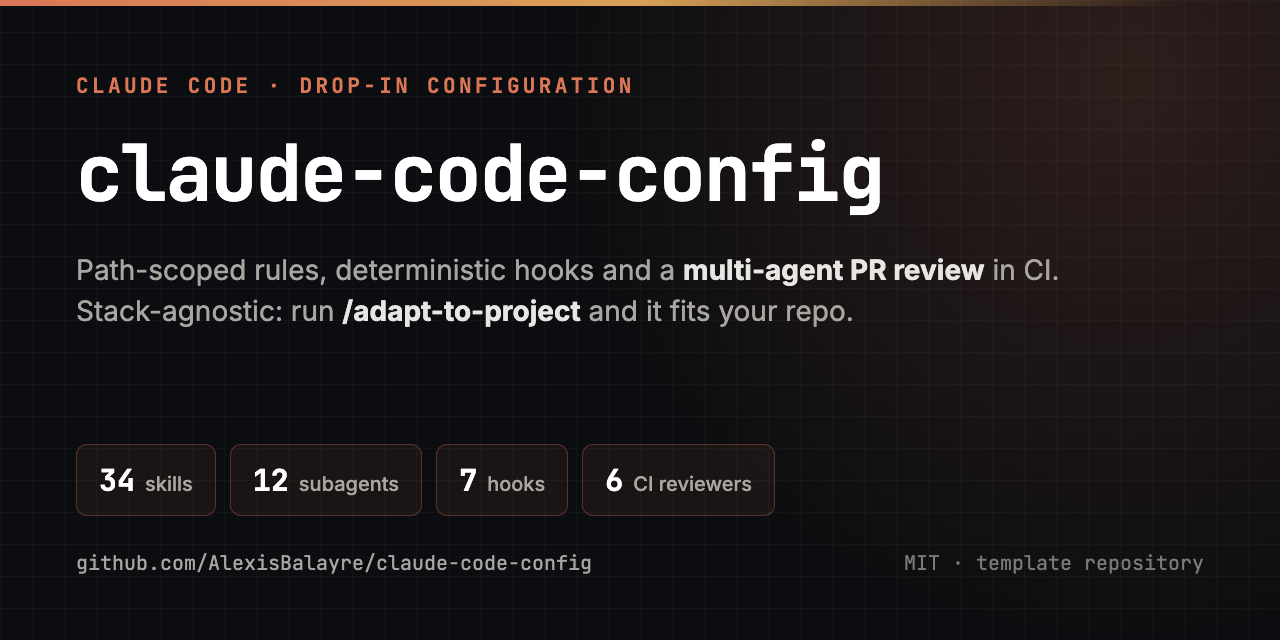
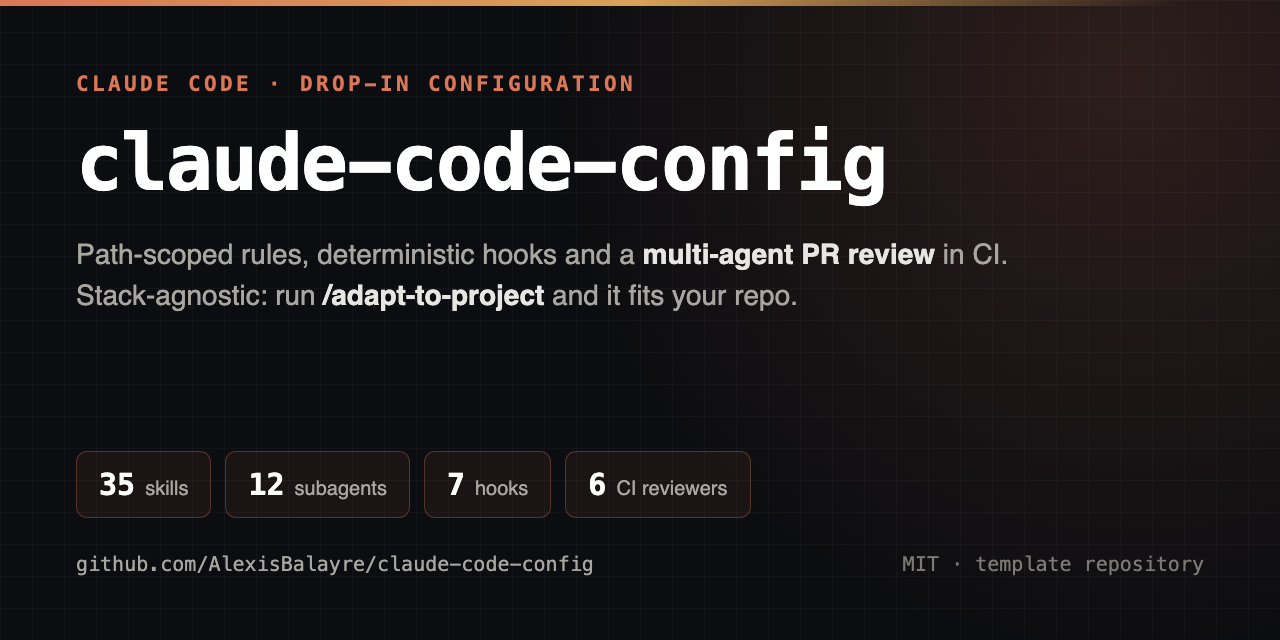
feat(skills): refresh from mattpocock/skills (49dd158) (#29)
* feat(skills): refresh from mattpocock/skills (49dd158)

Brings the tracked skills up to upstream as of 2026-10-09:
- wizard: template.sh fixes (readline prompts, .env quoting, 0600
  mode, symlinks, EOF)
- wayfinder: real ids in cross-references, resolve by the type label,
  no PR for research branches
- implement: fetch a passed ticket and state its title first
- pr-description: the scannable Merge Danger template
- grilling, tdd, diagnosing-bugs, handoff: one-line upstream tweaks

Retires resolving-merge-conflicts, as upstream did. Adds retro and
implement-spec, adapted to docs/conventions, the review-* agents,
scripts/worktree-create.sh and /pr-ci-review. Upstream's CONTEXT.md to
GLOSSARY.md rename needs nothing here: these skills use
docs/glossary.md. Skill count 34 -> 35, social preview re-rendered.

* fix(skills): decode a stored apostrophe on macOS bash, and point at real paths

wizard's _existing turned `'\''` back into `\'` on bash 3.2 (macOS
/bin/bash), so every re-run of a generated wizard added a backslash to a
value holding an apostrophe. retro named the transcript directory with only
`/` replaced, which misses `.worktrees/`; implement-spec now says docs/plans/
lives only in the main checkout.

* fix(skills): make implement-spec commit, push and draft for real, and keep .env comments out of values

From #29's review. implement-spec never committed ticket work or pushed the
integration branch, so the CI review would have seen the first ticket only,
[…]

diff --git a/assets/social-preview.html b/assets/social-preview.html
@@ -82,7 +82,7 @@
   </div>
 
   <div class="stats">
-    <div class="stat"><span class="n">34</span><span class="l">skills</span></div>
+    <div class="stat"><span class="n">35</span><span class="l">skills</span></div>
     <div class="stat"><span class="n">12</span><span class="l">subagents</span></div>
     <div class="stat"><span class="n">7</span><span class="l">hooks</span></div>
     <div class="stat"><span class="n">6</span><span class="l">CI reviewers</span></div>

diff --git a/.claude/skills/retro/SKILL.md b/.claude/skills/retro/SKILL.md
@@ -1,0 +1,44 @@
+---
+name: retro
+description: "Conduct a retrospective on a coding session."
+disable-model-invocation: true
+---
+
+The user has asked for a **retrospective**. You are suggesting improvements to the coding agent's **environment** to improve future runs. (The CI review pipeline has its own retrospective over its run records: `/review-retro`.)
+
+## Steps
+
+1. Call the Skill tool with `writing-for-agents` for the writing style guide.
+
+2. Read the primary sources for the session the user specifies. Claude Code keeps each session's transcript at `~/.claude/projects/<project path with every character but letters and digits replaced by "-">/<session id>.jsonl`. If the user doesn't specify a session, default to the current one.
+
+3. Look for candidates for improvement in these categories.
+
+- **Navigation**: how easy was it for the agent to find the right files? Are there hidden dependencies between files? Would a **navigation pointer** make it easier? _Use when_ the session took a long time to find a piece of information.
+- **Automated checks**: are there automated checks that could catch errors the agent made? Linting, typing, tests, filesystem linters? Read the repo's own checks first (`LINT_CMD`, `TYPECHECK_CMD` and `TEST_CMD` in `.claude/project.env`, which `scripts/pre-commit` runs, and the `Stop` hook too, tests aside, and the workflows under `.github/workflows/`), so a check that already exists but sits unwired or silently broken is the finding, not a reinvention. A repo with no **guardrail** (those keys empty, and no CI job running lint/typecheck/test) is itself a finding: an un-linted repo is a standing missed opportunity, not a neutral default. _Use when_ the agent made a mistake an automated check could have caught, or the repo has no guardrail at all.
+- **Coding standards**: should the **reviewer agents** (`review-conventions` under `/pr-ci-review`, `convention-checker` before a commit) be given a new rule to enforce? Should an existing rule be removed or clarified? Classify the violation first: a **mechanical** one (a fixed syntactic pattern, a banned API, an import shape, a file-location rule) gets a deterministic check, full stop: a rule in the repo's own linter, a row in `.claude/spot-checks.tsv`, a hook under `.claude/hooks/`, a `scripts/pre-commit` step, or a CI job, whichever the repo's language and existing guardrail make cheapest. Default to building the check over writing the rule. Reserve `docs/conventions/<area>.md` for genuine **judgement calls** (cross-file consistency, "matches the surrounding style," anything no guardrail could ever substitute for). _Use when_ a reviewer agent failed to catch a mistake.
+- **Global AGENTS.md**: are there any steering instructions in `AGENTS.md` or `CLAUDE.md` that should be moved to `docs/conventions/` (or automated checks) instead? _Use when_ those files are particularly large - in the repo OR the user's global scope (`~/.claude/CLAUDE.md`).
+- **Tool economy**: did the agent make expensive tool calls that could be streamlined? Is there any custom tooling (CLI's, MCP's) that is particularly token-inefficient? _Use when_ the agent made an expensive tool call.
+- **No-ops**: look for instructions in steering files that don't modify the agent's behavior. _Use when_ the steering files are large and unwieldy.
+- **Information access**: look for opportunities to increase the agent's access to information. Teeing dev server logs, readonly access to third-party services. _Use when_ a crucial piece of information was not available to the agent.
+
+4. Present these candidates to the user, in order of severity.
+
+## Reference
+
+### Implementation vs Review
+
+Remember that all work goes through two stages: implementation and review. The implementation agent has the most **context pressure**. They are responsible for exploration, writing code, and debugging failures.
+
+The review agent has the least context pressure - it receives a diff, so no exploration needed. It often does not need to write code or debug.
+
+This means that the review agents should be responsible for imposing coding standards, not the implementation agent.
+
+### Files
+
+You have access to several files in the repo:
+
+- `CLAUDE.md`/`AGENTS.md`: these files are pushed to the context window of any agent working in this repo. They should be used incredibly sparingly, usually only for **navigation pointers** to other files.
+- `docs/conventions/<area>.md`: the coding standards. `.claude/rules/` loads one only when an agent touches its area, and the reviewer agents enforce them on the diff. Point a doc at other `docs/` pages rather than growing it past 1,000 lines.
+- Docs: `docs/` (indexed by `docs/README.md`) holds reference files, pointed to by other files. Look for existing docs before writing new ones.
+- Skills: use skills for docs (since their description goes into the agent's context window), or for user-invoked commands. Follow the advice in the `writing-for-agents` skill.

diff --git a/.claude/skills/implement-spec/SKILL.md b/.claude/skills/implement-spec/SKILL.md
@@ -1,0 +1,41 @@
+---
+name: implement-spec
+description: "Implement the result of /to-spec and /to-tickets in code."
+disable-model-invocation: true
+---
+
+You have been provided a spec. This spec should have tickets associated with it, describing how to implement the spec.
+
+The tickets live in the configured tracker (IDs from `.env`), or under `docs/plans/<feature-slug>/issues/` when there is no tracker (see `/to-tickets`). If you can't find them, ask the user. `docs/plans/` is never committed, so it exists only in the main checkout: point subagents at it by absolute path.
+
+The goal is the entire spec implemented on a single **integration branch**, with every ticket resolved the way the issue tracker closes work.
+
+The tickets are not a list of steps. They are a **task graph** with blocking relationships between them. This means there is always a **frontier** of tickets which are ready to be grabbed.
+
+Communication to and from subagents should be sparse. Communicate primarily through **context pointers**: to the spec, tickets, research notes, and previous commits. Don't duplicate information already available via pointers.
+
+**Implementer subagents** should be run in the background where possible for maximum concurrency.
+
+## Steps
+
+1. Read the spec and tickets to understand the task graph.
+
+2. (optional) Use an **exploration subagent** to conduct any exploration required by the tickets - relevant codebase files or external documentation. Ensure the exploration subagent can save files - it should save its markdown notes in a directory outside the repo, accessible by all future subagents. This lets **implementer subagents** focus on implementation rather than exploration.
+
+3. Create the integration branch with `scripts/worktree-create.sh <spec-slug>`. After the first merge in step 5 (a branch with no commits ahead of the trunk can't open a PR), push it and open a **draft** PR marked as closing the spec and tickets. Call the Skill tool with `pr-description` for its title and body only, then open it yourself with `gh pr create --draft`: `pr-description`'s own create step opens a ready PR, which the CI review bills on every push. The CI review skips drafts, so it runs once step 8 marks the PR ready.
+
+4. Use **implementer subagents** to implement each ticket, each in its own worktree on its own branch: `scripts/worktree-create.sh <ticket-slug>`, run from the integration worktree, branches from the integration branch. Each implementer subagent:
+   - confirms its worktree is based on the integration branch before starting, and fast-forwards onto it (`git merge --ff-only <integration-branch>`) if not;
+   - calls the Skill tool with `tdd` to build the ticket;
+   - commits its work on its own branch;
+   - merges the integration branch tip into its own branch before reporting done
+
+5. Once an **implementer subagent** completes, merge its work to the integration branch with a **merger subagent**, then push the integration branch. Run mergers one at a time: two in the same integration worktree collide.
+
+6. If this changes the **frontier** of available tickets, kick off more **implementer subagents** to work on the new tickets. This allows for maximum concurrency.
+
+7. Once all tickets are complete, review the integration branch's diff against the spec and tickets yourself: every acceptance criterion met, nothing built beyond them. Fix any gap in a single **implementer subagent**.
+
+8. Push the integration branch and mark the draft PR ready for review, which starts the CI review (`pr-ci-review`). Wait for it (`gh pr checks <number> --watch`), fix the important findings in the review it posts (that review's, not other comments on the PR) in a single **implementer subagent**, and push. Then resolve each ticket the way the issue tracker closes work.
+
+9. From the integration worktree, where their branches are merged, clean up every **implementer subagent** worktree (`git worktree remove`) and its branch (`git branch -d`).

diff --git a/.claude/skills/wayfinder/SKILL.md b/.claude/skills/wayfinder/SKILL.md
@@ -133,8 +133,8 @@ User invokes with a loose idea.
 1. **Name the destination.** Call the Skill tool twice, for "grilling" and "domain-modeling", to pin down what this map is finding its way to: the spec, decision, or change. The destination fixes the scope, so it's settled first.
 2. **Map the frontier.** Grill again, **breadth-first** this time: fan out across the whole space rather than deep on any one thread, surfacing the open decisions and the first steps takeable now. **If this surfaces no fog** (the way to the destination is already clear, the whole journey small enough for one session), you don't need a map. Stop and ask the user how they'd like to proceed.
 3. **Create the map** (label `wayfinder:map`): Destination and Notes filled in, Decisions-so-far empty, the fog sketched into **Not yet specified**.
-4. **Create the tickets you can specify now** as child issues of the map, then wire blocking edges in a **second pass** (issues need ids before they can reference each other). Wiring sorts them into the frontier and the blocked; everything you can't yet specify stays in the fog: the **Not yet specified** section.
-5. **Fire the research subagents.** For each `research` ticket you just created, spin up a subagent that calls the Skill tool with "research" to resolve it in parallel, working in its own throwaway worktree (`scripts/worktree-create.sh research-<name>`), with a context pointer from the ticket to its findings.
+4. **Create the tickets you can specify now** as child issues of the map, then wire blocking edges in a **second pass** (issues need ids before they can reference each other). Write cross-references in that pass too, with real ids: a placeholder `#<n>` auto-links to an unrelated issue. Wiring sorts them into the frontier and the blocked; everything you can't yet specify stays in the fog: the **Not yet specified** section.
+5. **Fire the research subagents.** For each `research` ticket you just created, spin up a subagent that calls the Skill tool with "research" to resolve it in parallel, working in its own throwaway worktree (`scripts/worktree-create.sh research-<name>`), with a context pointer from the ticket to its findings. Push its branch but open no PR: it is never merged.
 6. Stop: charting is one session's work; it hand-resolves nothing.
 
 ### Work through the map
@@ -143,7 +143,7 @@ User invokes with a map (URL, issue id, or `map.md` path). A ticket is **optiona
 
 1. Load the **map**: the low-res view, not every ticket body.
 2. Choose the ticket. If the user named one, use it. Otherwise take the first frontier ticket in order. **Claim it**: assign it to yourself before any work.
-3. Resolve it. **Zoom as needed**: fetch the full body of any related or closed ticket on demand; call the Skill tool for whichever skills the `## Notes` block names. If in doubt, call the Skill tool twice, for "grilling" and "domain-modeling".
+3. Resolve it as the type its `wayfinder:<type>` label (locally, its `Type:` line) names (see [Ticket Types](#ticket-types)). Read the label, not just the body: the body never states the type. **Zoom as needed**: fetch the full body of any related or closed ticket on demand; call the Skill tool for whichever skills the `## Notes` block names. If in doubt, call the Skill tool twice, for "grilling" and "domain-modeling".
 4. Record the resolution: post the answer as a **resolution comment**, **close** the issue, and **append a context pointer** to the map's Decisions-so-far.
 5. Add newly-surfaced tickets (create-then-wire); graduate any fog the answer has made specifiable, clearing each graduated patch from **Not yet specified** so it lives only as its new ticket. If the answer reveals that a ticket (this one or another) sits beyond the destination, **rule it out of scope** rather than resolving it on the route. If the decision invalidates other parts of the map, update or delete those tickets.
 

diff --git a/README.md b/README.md
@@ -1,6 +1,6 @@
 # claude-code-config
 
-**A complete Claude Code setup you can drop into any repo: path-scoped rules, 34 skills, 12
+**A complete Claude Code setup you can drop into any repo: path-scoped rules, 35 skills, 12
 subagents, 7 deterministic hooks, and a multi-agent PR review that runs in GitHub Actions.**
 
 [![Use this template](https://img.shields.io/badge/use%20this-template-2ea44f?style=flat-square&logo=github)](https://github.com/AlexisBalayre/claude-code-config/generate)
@@ -46,7 +46,7 @@ around one stack. This one is built on three different bets:
 | **`AGENTS.md`** + **`CLAUDE.md`** | 2 | Always-on project memory, layered: `AGENTS.md` is the tool-agnostic base (role, conventions map, comments/altitude discipline, git workflow) any coding agent can read; `CLAUDE.md` just imports it and adds Claude Code-only notes. Kept tiny on purpose. |
 | **`project.env`** | 1 | The project profile: format/lint/typecheck/test/install commands, generated paths, file-naming pattern, trunk. Every hook and script reads it; an empty key turns its check off. |
 | **`rules/`** | 2+ | Path-scoped **pure loaders** (core, testing, plus one per project area once adapted) that auto-load `docs/conventions/*.md` only when you touch matching files. |
-| **`skills/`** | 34 | Auto-discoverable workflows: setup (`adapt-to-project`), planning (`to-spec`, `to-tickets`, `wayfinder`, `implement`…), engineering (`tdd`, `diagnosing-bugs`, `resolving-merge-conflicts`, `wizard`, `research`…), thinking & design (`grilling`, `grill-me`, `codebase-design`, `domain-modeling`, `prototype`…), PR & review (`pr-description`, `pr-ci-review`, `address-review-comments`, `review-retro`), meta (`writing-for-agents`, `handoff`, `wait-what`…), and personal integrations (`obsidian-vault`, `daily-note`, `fix-sonar`, `wiz`… — configured via `.env`). Engineering and thinking skills track [mattpocock/skills](https://github.com/mattpocock/skills). |
+| **`skills/`** | 35 | Auto-discoverable workflows: setup (`adapt-to-project`), planning (`to-spec`, `to-tickets`, `wayfinder`, `implement`, `implement-spec`…), engineering (`tdd`, `diagnosing-bugs`, `wizard`, `research`…), thinking & design (`grilling`, `grill-me`, `codebase-design`, `domain-modeling`, `prototype`…), PR & review (`pr-description`, `pr-ci-review`, `address-review-comments`, `review-retro`), meta (`writing-for-agents`, `retro`, `handoff`, `wait-what`…), and personal integrations (`obsidian-vault`, `daily-note`, `fix-sonar`, `wiz`… — configured via `.env`). Engineering and thinking skills track [mattpocock/skills](https://github.com/mattpocock/skills). |
 | **`agents/`** | 12 | Isolated subagents: 4 proactive (`convention-checker`, `migration-reviewer`, `security-reviewer`, `architecture-explainer`), 7 `review-*` reviewers + validator dispatched by `pr-ci-review`, and `comment-pruner` dispatched by its Stop hook. |
 | **`hooks/`** | 7 | Zero-LLM shell scripts on lifecycle events: quality gate, convention spot-check, comment-pruner dispatch, git safety, generated-file protection, file-naming validation, compaction preservation. All stack-specific values come from `project.env`. |
 

diff --git a/.claude/skills/README.md b/.claude/skills/README.md
@@ -25,6 +25,7 @@ to invoke it.
 | `to-tickets` | Break a plan, spec, or conversation into tracer-bullet tickets, each declaring its blocking edges. | Manual only (`/to-tickets`) |
 | `wayfinder` | Plan work too big for one agent session as a shared map of decision tickets, then resolve them one at a time. | Manual only (`/wayfinder`) |
 | `implement` | Implement a spec or set of tickets: TDD, the project's typecheck/test commands, a self-review against the acceptance criteria, then commit on a feature branch. | Manual only (`/implement`) |
+| `implement-spec` | Implement a whole spec's tickets in parallel: a subagent and worktree per frontier ticket, merged into one integration branch behind a draft PR, then the CI review once the PR is marked ready. | Manual only (`/implement-spec`) |
 | `to-questionnaire` | A decision you can't answer alone: turn it into a questionnaire for the one person who can. | Manual only (`/to-questionnaire`) |
 
 ## Engineering — build, fix, and clean up
@@ -33,7 +34,6 @@ to invoke it.
 | :---- | :---------- | :----- |
 | `tdd` | Building a feature or fixing a bug test-first; "red-green-refactor"; want integration tests. | Auto or `/tdd` |
 | `diagnosing-bugs` | A hard bug or performance regression; "diagnose/debug this"; something broken, throwing, failing, or slow. Builds a feedback loop first and redacts secrets from anything it shows. | Auto or `/diagnosing-bugs` |
-| `resolving-merge-conflicts` | A merge, rebase, or cherry-pick stopped on conflicts. Resolves by intent and regenerates, never hand-merges, generated files. | Auto or `/resolving-merge-conflicts` |
 | `wizard` | A step only a human can do (dashboard clicks, credentials, CI secrets, a one-off cutover): generates an interactive bash wizard that walks them through it. | Auto or `/wizard` |
 | `research` | Research a question against primary sources and save the cited findings to `docs/research/<slug>.md`. | Auto or `/research` |
 | `find-dead-code` | "find dead code" / "unused exports" / "prune the codebase". Returns a ranked candidate list with a per-item verification checklist; it never deletes. | Manual only (`/find-dead-code`) |
@@ -65,6 +65,7 @@ to invoke it.
 | Skill | When to use | Invoke |
 | :---- | :---------- | :----- |
 | `writing-for-agents` | Create or edit a skill, `AGENTS.md`, or `CLAUDE.md` well: context pointers, information hierarchy, leading words, invocation mechanics, and this repo's house rules. | Auto or `/writing-for-agents` |
+| `retro` | After a session: read its transcript and suggest fixes to the agent's environment (missing checks, conventions, navigation pointers, no-op instructions, costly tool calls), most severe first. | Manual only (`/retro`) |
 | `handoff` | Compact the current conversation into a handoff document for another agent or a fresh session. | Manual only (`/handoff`) |
 | `wait-what` | A message didn't land: the agent re-pitches it with context, plain language, and the glossary's terms. | Manual only (`/wait-what`) |
 | `caveman` | Ultra-compressed replies (~75% fewer tokens) with full technical accuracy; "caveman mode", "be brief". | Auto or `/caveman` |

diff --git a/.claude/README.md b/.claude/README.md
@@ -57,15 +57,15 @@ A rule fires on the first Read, Edit, or Write of a matching path (not on MCP re
 ├── skills/                # Auto-discoverable knowledge + workflows (each is <name>/SKILL.md)
 │   ├── adapt-to-project/                                         # setup (run once per project)
 │   ├── to-spec/   to-tickets/   wayfinder/   implement/          # planning & specs
-│   ├── to-questionnaire/
-│   ├── tdd/   diagnosing-bugs/   resolving-merge-conflicts/      # engineering
-│   ├── wizard/   research/
+│   ├── implement-spec/   to-questionnaire/
+│   ├── tdd/   diagnosing-bugs/   wizard/   research/             # engineering
 │   ├── find-dead-code/   improve-codebase-architecture/          # engineering (manual)
 │   ├── grilling/   grill-me/   grill-with-docs/                  # thinking / design
 │   ├── codebase-design/   domain-modeling/   zoom-out/   prototype/
 │   ├── pr-description/   pr-ci-review/                           # PR & review
 │   ├── address-review-comments/   review-retro/
-│   ├── writing-for-agents/   handoff/   caveman/   wait-what/     # meta / workflow
+│   ├── writing-for-agents/   retro/   handoff/   caveman/        # meta / workflow
+│   ├── wait-what/
 │   ├── obsidian-vault/   daily-note/   backfill-issues/           # personal integrations (.env)
 │   └── fix-sonar/   wiz/   fix-wiz/
 │
@@ -120,7 +120,7 @@ paths:
 
 Skills are directories with a `SKILL.md` that Claude discovers automatically. Claude sees the description at session start (tiny context cost) and loads the full content when the skill is relevant.
 
-This repo ships **34 skills** across setup, planning, engineering, thinking/design, PR & review, meta, and personal integrations. The **[skill catalog](skills/README.md)** lists when each one fires and how to invoke it (auto-trigger, `/slash-command`, Claude-only, or manual-only).
+This repo ships **35 skills** across setup, planning, engineering, thinking/design, PR & review, meta, and personal integrations. The **[skill catalog](skills/README.md)** lists when each one fires and how to invoke it (auto-trigger, `/slash-command`, Claude-only, or manual-only).
 
 **Frontmatter options:**
 - `name` — identifier and `/slash-command` name

diff --git a/.claude/skills/tdd/SKILL.md b/.claude/skills/tdd/SKILL.md
@@ -21,7 +21,7 @@ A **seam** is the public boundary you test at: the interface where you observe b
 
 **Test only at pre-agreed seams.** Before writing any test, write down the seams under test and confirm them with the user. No test is written at an unconfirmed seam. You can't test everything, so agreeing the seams up front is how testing effort lands on the critical paths and complex logic instead of every edge case.
 
-Ask: "What's the public interface, and which seams should we test?"
+Ask: "What's the public interface, and which seams should we test?" Give each proposed seam a one-line note on what it catches and what it misses.
 
 When the shape of that interface is itself in question (how deep the module is, where the seam belongs, what the interface should expose), call the Skill tool with "codebase-design" for the vocabulary. It is the shared source of the module, interface, depth, seam, adapter, leverage and locality terms, and it is a reference to consult, not a session to run.
 

diff --git a/.claude/skills/grilling/SKILL.md b/.claude/skills/grilling/SKILL.md
@@ -21,6 +21,8 @@ Format a round like so:
 ➡ <your recommended answer>
 ```
 
+Word each question so "yes" accepts your recommended answer.
+
 Each round the user answers reshapes the tree: settled decisions push the frontier outward and unblock questions that depended on them. Recompute the frontier and ask the next round. A question whose answer depends on another question still open in this round belongs to a _later_ round, not this one.
 
 Finding _facts_ is your job, never the user's. When a frontier question needs a fact from the environment (filesystem, tools, etc.), dispatch a sub-agent to find it; don't ask the user for anything you could look up yourself. Don't block on it: a running exploration is an unsettled prerequisite, so only the questions downstream of it wait for the sub-agent to report; ask the rest of the frontier now. The _decisions_ are the user's: put each to them and wait.

diff --git a/.claude/skills/implement/SKILL.md b/.claude/skills/implement/SKILL.md
@@ -6,6 +6,8 @@ disable-model-invocation: true
 
 Implement the work described by the user in the spec or tickets.
 
+If the user passes a ticket reference, fetch it from the configured tracker (or its file under `docs/plans/` when there is no tracker, by absolute path into the main checkout: `docs/plans/` is never committed, so a worktree has none) and state its title before starting. If the reference is ambiguous, ask.
+
 Call the Skill tool with "tdd" where possible, at pre-agreed seams.
 
 Run typechecking regularly (`TYPECHECK_CMD`), single test files regularly, and the full test suite (`TEST_CMD`) once at the end. Both commands live in `.claude/project.env`; an empty key means that check is off.

diff --git a/.claude/skills/handoff/SKILL.md b/.claude/skills/handoff/SKILL.md
@@ -5,7 +5,7 @@ argument-hint: "What will the next session be used for?"
 disable-model-invocation: true
 ---
 
-Write a handoff document summarising the current conversation so a fresh agent can continue the work. Save to the temporary directory of the user's OS - not the current workspace.
+Write a handoff document summarising the current conversation so a fresh agent can continue the work. Save to the temporary directory of the user's OS (`$TMPDIR`, else `/tmp`; `%TEMP%` on Windows) - not the current workspace.
 
 Include a "suggested skills" section in the document, naming which skills the next agent should call the Skill tool for.
 

diff --git a/.claude/skills/diagnosing-bugs/SKILL.md b/.claude/skills/diagnosing-bugs/SKILL.md
@@ -122,7 +122,7 @@ A correct seam is one where the test exercises the **real bug pattern** as it oc
 If a correct seam exists:
 
 1. Turn the minimised repro into a failing test at that seam.
-2. Watch it fail.
+2. Watch it fail. If you forced the red by mutating code or a fixture, `diff` against a pristine copy to prove the mutation landed before you trust it.
 3. Apply the fix.
 4. Watch it pass.
 5. Re-run the Phase 1 feedback loop against the original (un-minimised) scenario.
